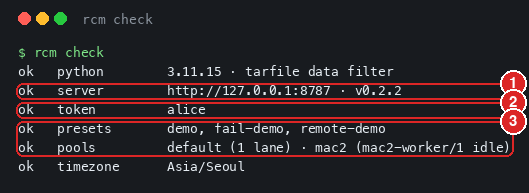
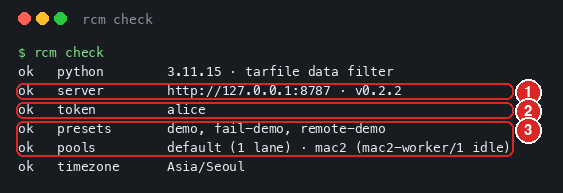
docs(screenshots): 번호 동그라미를 글자 밖으로 뺀다
터미널 화면의 상자가 화면 폭을 다 쓰기 때문에 오른쪽 위 모서리에 놓인 번호가
마지막 칸 글자를 덮었다(rcm discover 의 lanes). 상자 오른쪽에 번호 자리를
비워 두고 그 바깥에 그린다. 터미널 화면 여덟 장을 다시 만들었다.

diff --git a/tools/screenshots/term.py b/tools/screenshots/term.py
@@ -17,6 +17,8 @@ BG = (24, 27, 31)
 FG = (230, 237, 243)
 DIM = (139, 148, 158)
 PROMPT = (126, 231, 135)
+#: 상자 번호를 글자 밖에 두기 위해 오른쪽에 비워 두는 폭
+BADGE_GUTTER = 34
 JSON_C = (210, 168, 255)
 ANSI = re.compile(r"\x1b\[[0-9;]*[A-Za-z]")
 EMOJI_CHARS = {"✅", "❌", "⚠", "⏳", "🔑", "⚠"}
@@ -49,7 +51,8 @@ def render(
     adv = font.getlength("M")
     ncols = width_chars or max(len(ln) for ln in lines)
     ncols = max(ncols, 40)
-    W = int(PAD_X * 2 + adv * ncols)
+    gutter = BADGE_GUTTER if boxes else 0
+    W = int(PAD_X * 2 + adv * ncols + gutter)
     top = PAD_Y + (28 if title else 0)
     H = int(top + LINE * len(lines) + PAD_Y)
     img = Image.new("RGB", (W, H), BG)
@@ -91,5 +94,5 @@ def render(
             (n, (PAD_X - 2, top + a * LINE + 1, adv * ncols + 4, (b - a + 1) * LINE - 3))
             for n, a, b in boxes
         ]
-        out = draw_boxes(img, px, pad=0, width=2, badge_at="tr")
+        out = draw_boxes(img, px, pad=0, width=2, badge_at="r")
     return save_png(out, dst)

diff --git a/tools/screenshots/annotate.py b/tools/screenshots/annotate.py
@@ -35,7 +35,7 @@ def draw_boxes(
     """빨간 사각형 + 번호 원을 그린다.
 
     boxes: `[(번호, (x, y, w, h)[, 위치]), …]` — 이미지 픽셀 좌표.
-    위치: `tl`(기본) · `tr` · `l`(왼쪽 바깥) · `t`(위 바깥).
+    위치: `tl`(기본) · `tr` · `r`(오른쪽 바깥) · `l`(왼쪽 바깥) · `t`(위 바깥).
     """
     img = img.convert("RGBA")
     layer = Image.new("RGBA", img.size, (0, 0, 0, 0))
@@ -52,7 +52,9 @@ def draw_boxes(
         x0, y0 = max(1, x - pad), max(1, y - pad)
         x1 = min(img.width - 2, x + w + pad)
         r = badge / 2
-        if pos == "tr":
+        if pos == "r":  # 상자 바깥 오른쪽 — 글자를 덮지 않는다
+            cx, cy = x1 + r + 2, y0 + r - 4
+        elif pos == "tr":
             cx, cy = x1, y0
         elif pos == "l":
             cx, cy = x0 - r + 2, y0 + r - 4
